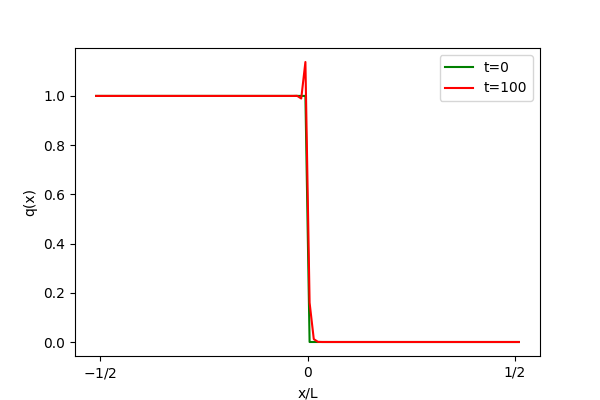
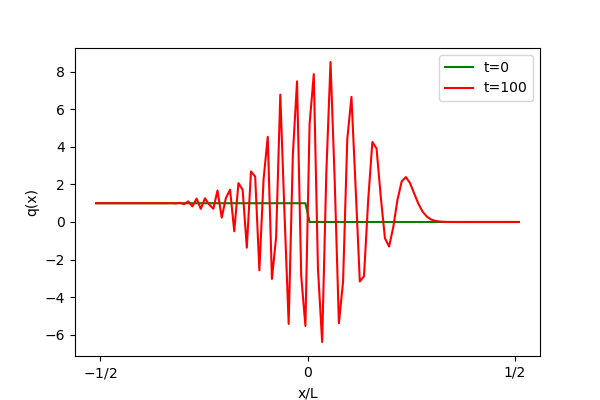
Aufgabe9

diff --git a/09/code/ex2.py b/09/code/ex2.py
@@ -12,16 +12,16 @@ def advect(qold, vold, dx, dt):
         set(np.where(np.sign(v[1:]) == -1)[0]) &
         set(np.where(np.sign(v[:-1]) == -1)[0])
                      )
-    print(masksym)
-    print(maskupwind)
-    print(maskdownwind)
+    # print(masksym)
+    # print(maskupwind)
+    # print(maskdownwind)
     v_mean = (vold[1:] + vold[:-1])/2
     # symmetric
     qold[1:-1][masksym] -= (qold[2:][masksym] - qold[:-2][masksym]) / (2*dx) * \
                                 v_mean[masksym] * dt
     # upwind
     qold[1:-1][maskupwind] -= (qold[1:-1][maskupwind] - qold[:-2][maskupwind])\
-                                / dx * vold[:-1] * dt
+                                / dx * vold[:-1][maskupwind] * dt
     # downwind
     qold[1:-1][maskdownwind] -= (qold[2:][maskdownwind] - qold[1:-1][maskdownwind]) / dx \
                                 * vold[1:][maskdownwind] * dt
@@ -34,9 +34,28 @@ dx = L/x_N
 v = np.ones(x_N+1)
 x = np.linspace(-L/2-dx, L/2+dx, num=x_N+2)
 q_0 = (x - np.abs(x))/(2*x)
-dt = 3 / 100
+dt = 3.0 / 100
 for i in range(x_N):
     q_0 = advect(q_0, v, dx, dt)
 plt.plot(x, q_0)
 plt.savefig("../figures/plot1.png")
+
+
+v = -2/L * np.linspace(-L/2-dx/2, L/2 + dx/2, x_N+1)
+# print(x)
+# print(v)
+q_0 = np.zeros_like(x)
+for i in range(len(x)):
+    # print(np.abs(x[i]), L/4)
+    if (np.abs(x[i]) < L/4):
+        q_0[i] = 1
+# print(len(q_0))
+plt.figure()
+plt.plot(x, q_0, label="0")
+for i in range(x_N):
+    q_0 = advect(q_0, v, dx, dt)
+plt.plot(x, q_0, label="1")
+plt.legend()
+plt.savefig("../figures/plot2.png")
+
 print('Done.')

diff --git a/09/code/advection.py b/09/code/advection.py
@@ -5,7 +5,7 @@ def main(
     q_0, scheme="upwind", v=1, x_N=100, L=10,
     t_end=3., t_N=100, boundary_conditions=[1, 0]
 ):
-    dx = x_N / L
+    dx = L/x_N
     dt = t_end / t_N
     # reserve storage
     q_all = np.zeros((t_N+1, x_N+2))

diff --git a/09/code/task_1.py b/09/code/task_1.py
@@ -50,3 +50,5 @@ q = advection(q_0, t_N=1000)
 plot(q, 6, ts=[1000], xlims=xlims)
 q = advection(q_0, t_N=10)
 plot(q, 7, ts=[10], xlims=xlims)
+
+print("Done.")
